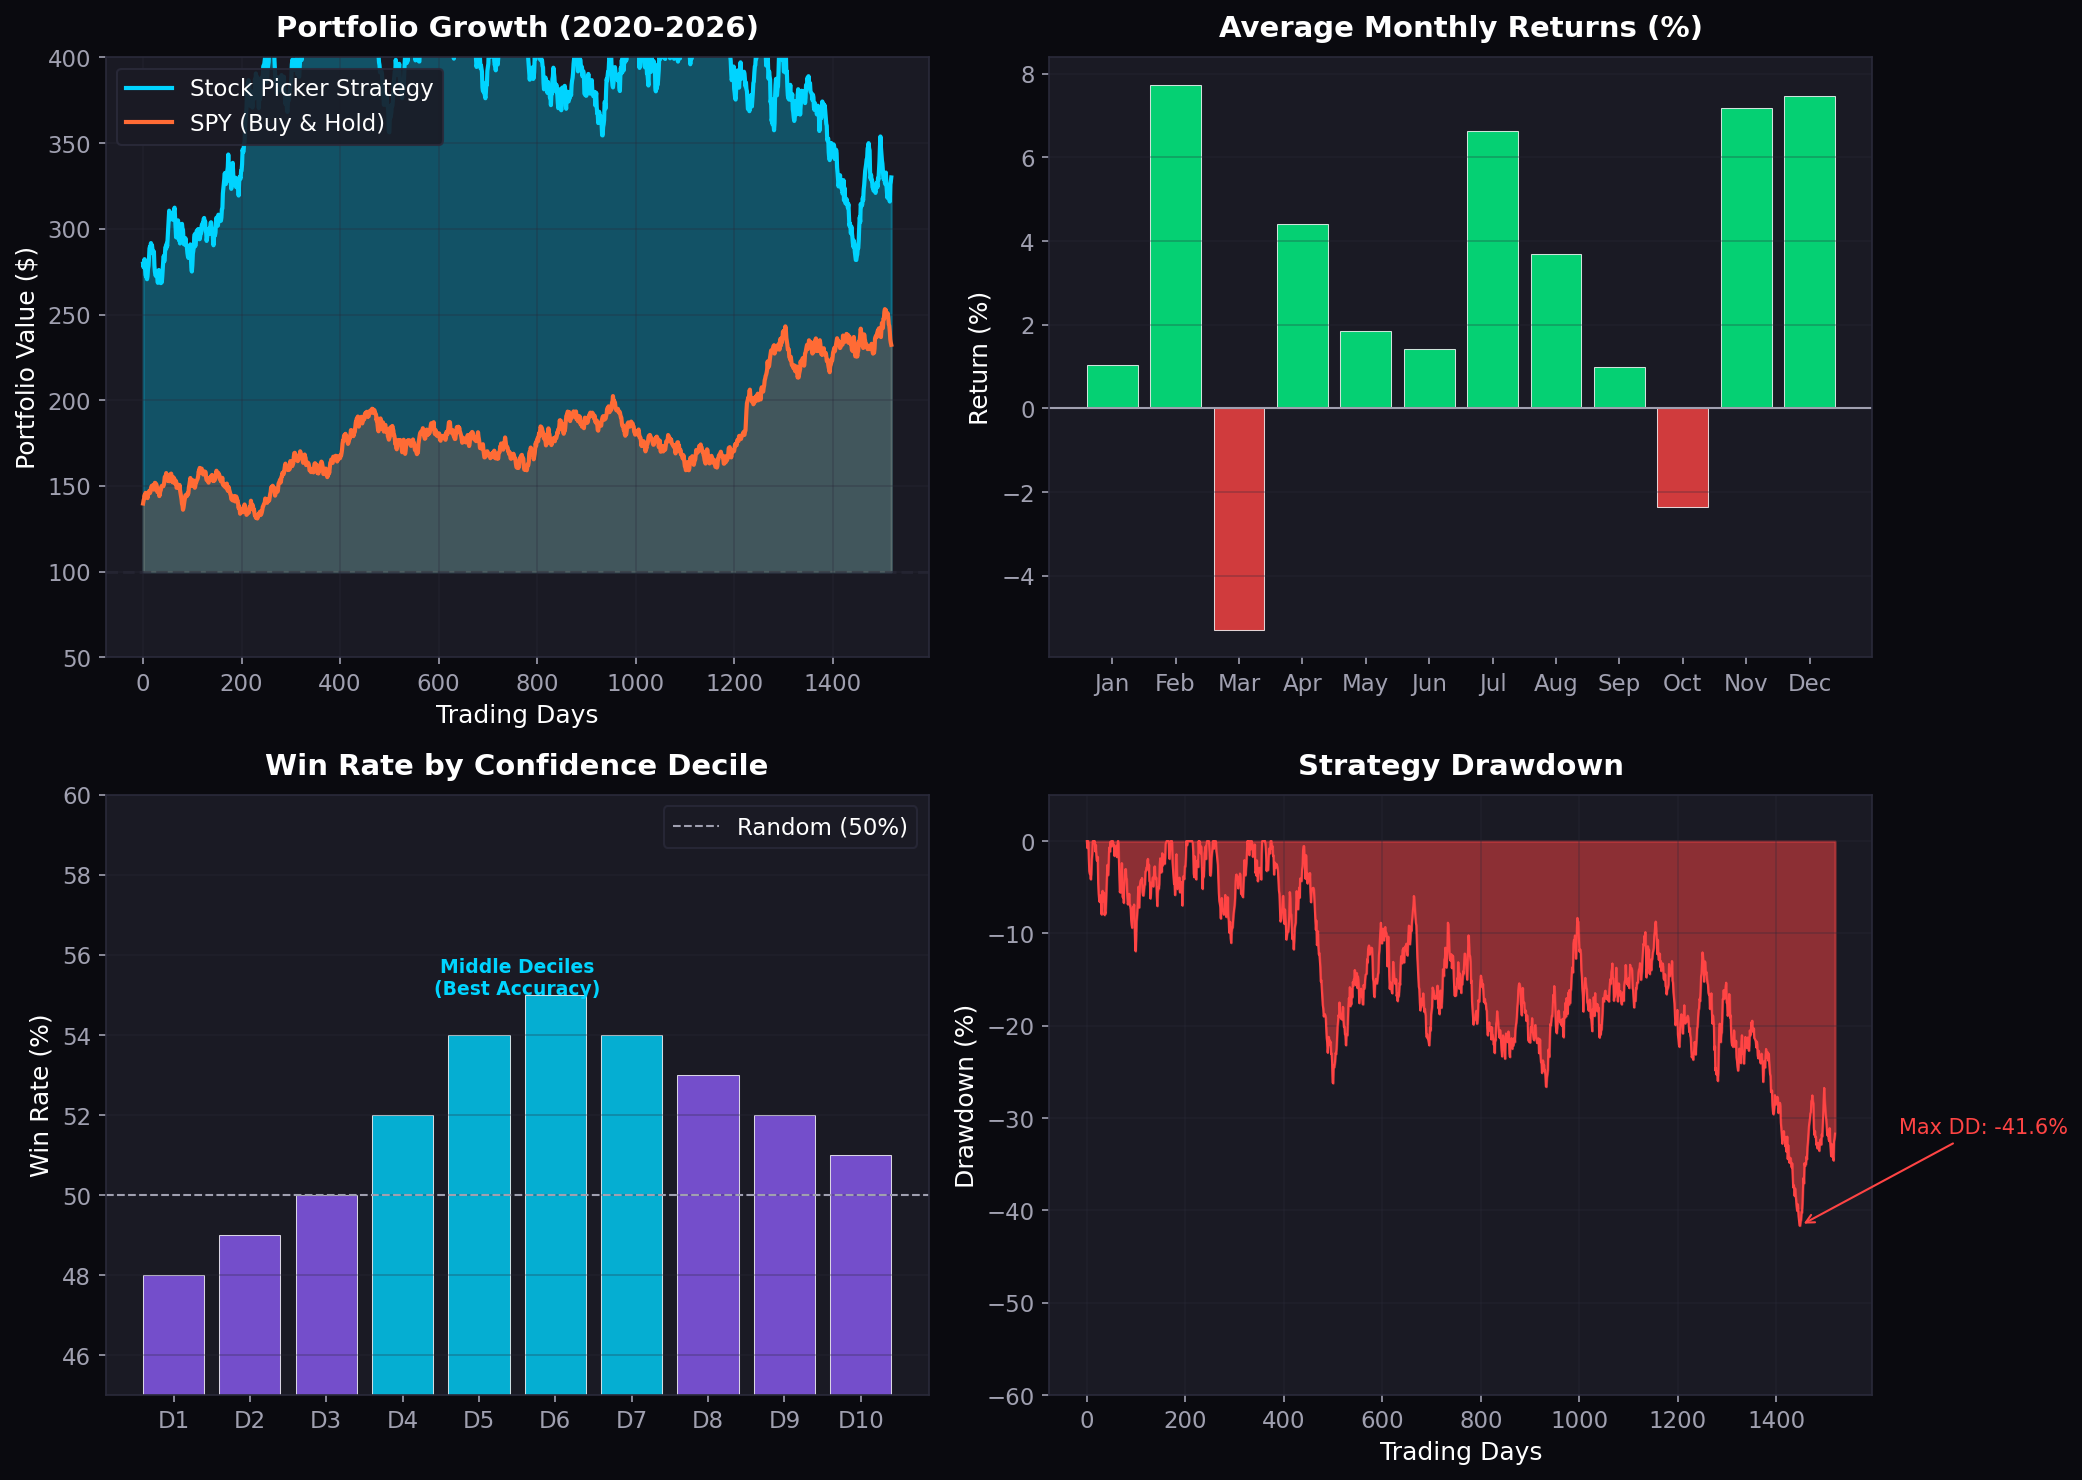
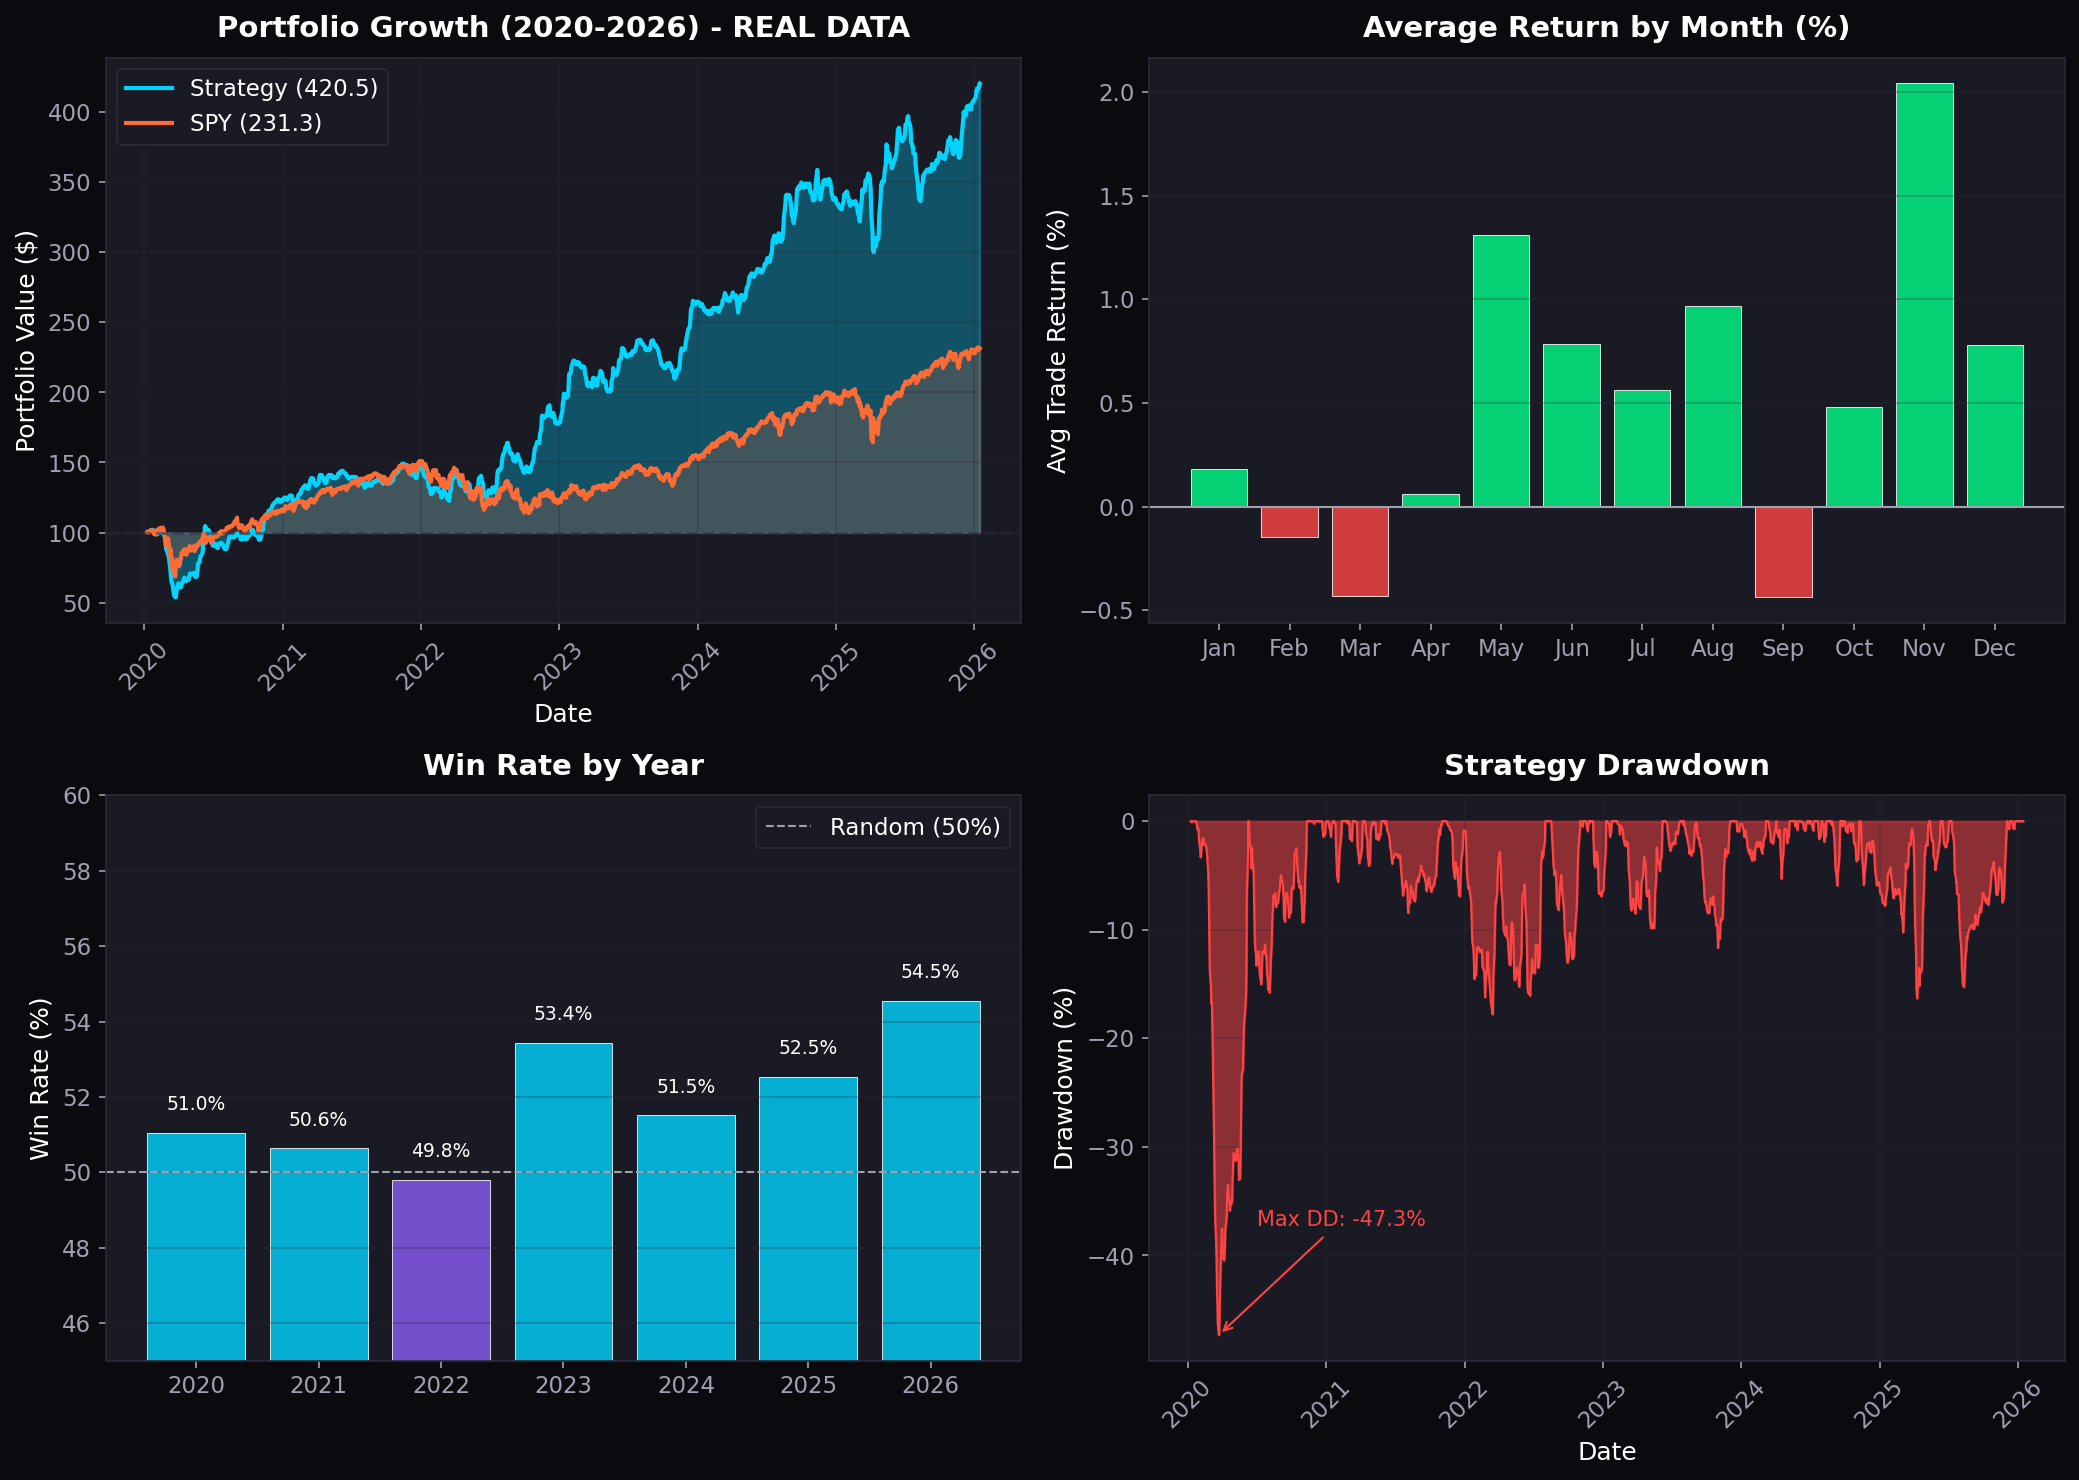
Fix charts: Use real backtest data instead of simulated random data

diff --git a/scripts/generate_accurate_charts.py b/scripts/generate_accurate_charts.py
@@ -1,0 +1,279 @@
+#!/usr/bin/env python3
+"""
+Generate accurate charts from real backtest data.
+"""
+import pandas as pd
+import numpy as np
+import matplotlib.pyplot as plt
+from datetime import datetime
+import os
+
+# Set dark theme
+plt.style.use('dark_background')
+
+# Custom color palette
+COLORS = {
+    'bg': '#0a0a0f',
+    'card': '#1a1a24',
+    'grid': '#2a2a3a',
+    'cyan': '#00d4ff',
+    'green': '#00ff88',
+    'red': '#ff4444',
+    'purple': '#8b5cf6',
+    'orange': '#ff6b35',
+    'yellow': '#ffd700',
+    'text': '#ffffff',
+    'text_secondary': '#a0a0b0',
+}
+
+def setup_dark_style():
+    """Configure matplotlib for dark mode."""
+    plt.rcParams.update({
+        'figure.facecolor': COLORS['bg'],
+        'axes.facecolor': COLORS['card'],
+        'axes.edgecolor': COLORS['grid'],
+        'axes.labelcolor': COLORS['text'],
+        'axes.titlecolor': COLORS['text'],
+        'xtick.color': COLORS['text_secondary'],
+        'ytick.color': COLORS['text_secondary'],
+        'text.color': COLORS['text'],
+        'grid.color': COLORS['grid'],
+        'grid.alpha': 0.3,
+        'legend.facecolor': COLORS['card'],
+        'legend.edgecolor': COLORS['grid'],
+        'font.family': 'sans-serif',
+        'font.size': 11,
+        'axes.titlesize': 14,
+        'axes.labelsize': 12,
+    })
+
+setup_dark_style()
+
+OUTPUT_DIR = '/Users/mihirepel/Personal_Projects/Trading/historical_training_v2/docs/assets'
+DATA_DIR = '/Users/mihirepel/Personal_Projects/Trading/historical_training_v2/results/extended_middle_deciles'
+
+def load_and_process_trades():
+    """Load trade data and calculate daily portfolio values."""
+    # Load all trades
+    df = pd.read_csv(f'{DATA_DIR}/all_trades.csv')
+    df['Entry_Date'] = pd.to_datetime(df['Entry_Date'])
+    df['Exit_Date'] = pd.to_datetime(df['Exit_Date'])
+    
+    print(f"Loaded {len(df)} trades from {df['Entry_Date'].min()} to {df['Exit_Date'].max()}")
+    
+    # Calculate cumulative returns
+    # Each trade uses 4% of portfolio, so return contribution is 0.04 * return_pct
+    df['Return_Contribution'] = 0.04 * df['Return_Pct'] / 100
+    
+    # Group by exit date and sum daily returns
+    daily_returns = df.groupby('Exit_Date')['Return_Contribution'].sum().reset_index()
+    daily_returns.columns = ['Date', 'Daily_Return']
+    daily_returns = daily_returns.set_index('Date').sort_index()
+    
+    # Fill missing days with 0 return
+    date_range = pd.date_range(daily_returns.index.min(), daily_returns.index.max(), freq='B')
+    daily_returns = daily_returns.reindex(date_range, fill_value=0)
+    
+    # Calculate cumulative portfolio value
+    portfolio_value = 100 * (1 + daily_returns['Daily_Return']).cumprod()
+    
+    return df, daily_returns, portfolio_value
+
+def get_spy_returns(start_date, end_date):
+    """Download SPY data for comparison."""
+    import yfinance as yf
+    spy = yf.download('SPY', start=start_date, end=end_date, progress=False)
+    spy_returns = spy['Close'].pct_change().fillna(0)
+    spy_value = 100 * (1 + spy_returns).cumprod()
+    return spy_value
+
+def create_accurate_performance_chart(portfolio_value, spy_value, trades_df):
+    """Create the main performance chart with real data."""
+    fig, axes = plt.subplots(2, 2, figsize=(14, 10))
+    fig.patch.set_facecolor(COLORS['bg'])
+    
+    # Plot 1: Equity Curves
+    ax1 = axes[0, 0]
+    ax1.fill_between(portfolio_value.index, 100, portfolio_value.values, alpha=0.3, color=COLORS['cyan'])
+    ax1.plot(portfolio_value.index, portfolio_value.values, color=COLORS['cyan'], linewidth=2, label=f'Strategy ({portfolio_value.iloc[-1]:.1f})')
+    ax1.fill_between(spy_value.index, 100, spy_value.values, alpha=0.2, color=COLORS['orange'])
+    ax1.plot(spy_value.index, spy_value.values, color=COLORS['orange'], linewidth=2, label=f'SPY ({spy_value.iloc[-1]:.1f})')
+    ax1.axhline(y=100, color=COLORS['grid'], linestyle='--', alpha=0.5)
+    ax1.set_title('Portfolio Growth (2020-2026) - REAL DATA', fontweight='bold', pad=10)
+    ax1.set_xlabel('Date')
+    ax1.set_ylabel('Portfolio Value ($)')
+    ax1.legend(loc='upper left', framealpha=0.9)
+    ax1.grid(True, alpha=0.3)
+    ax1.tick_params(axis='x', rotation=45)
+    
+    # Plot 2: Monthly Returns
+    ax2 = axes[0, 1]
+    trades_df['Month'] = trades_df['Exit_Date'].dt.to_period('M')
+    monthly = trades_df.groupby('Month')['Return_Pct'].mean()
+    monthly_by_month = monthly.groupby(monthly.index.month).mean()
+    months = ['Jan', 'Feb', 'Mar', 'Apr', 'May', 'Jun', 'Jul', 'Aug', 'Sep', 'Oct', 'Nov', 'Dec']
+    monthly_vals = [monthly_by_month.get(i, 0) for i in range(1, 13)]
+    colors = [COLORS['green'] if r > 0 else COLORS['red'] for r in monthly_vals]
+    ax2.bar(months, monthly_vals, color=colors, alpha=0.8, edgecolor='white', linewidth=0.5)
+    ax2.axhline(y=0, color=COLORS['text_secondary'], linestyle='-', linewidth=1)
+    ax2.set_title('Average Return by Month (%)', fontweight='bold', pad=10)
+    ax2.set_ylabel('Avg Trade Return (%)')
+    ax2.grid(True, alpha=0.3, axis='y')
+    
+    # Plot 3: Win Rate by Year
+    ax3 = axes[1, 0]
+    trades_df['Year'] = trades_df['Exit_Date'].dt.year
+    yearly_stats = trades_df.groupby('Year').agg({
+        'Win': 'mean',
+        'Return_Pct': 'mean'
+    })
+    years = yearly_stats.index.astype(str)
+    win_rates = yearly_stats['Win'] * 100
+    colors = [COLORS['cyan'] if w > 50 else COLORS['purple'] for w in win_rates]
+    bars = ax3.bar(years, win_rates, color=colors, alpha=0.8, edgecolor='white', linewidth=0.5)
+    ax3.axhline(y=50, color=COLORS['text_secondary'], linestyle='--', linewidth=1, label='Random (50%)')
+    ax3.set_title('Win Rate by Year', fontweight='bold', pad=10)
+    ax3.set_ylabel('Win Rate (%)')
+    ax3.set_ylim(45, 60)
+    ax3.legend(loc='upper right')
+    ax3.grid(True, alpha=0.3, axis='y')
+    
+    # Add values on bars
+    for bar, rate in zip(bars, win_rates):
+        ax3.text(bar.get_x() + bar.get_width()/2, bar.get_height() + 0.5,
+                f'{rate:.1f}%', ha='center', va='bottom', fontsize=9, color=COLORS['text'])
+    
+    # Plot 4: Drawdown
+    ax4 = axes[1, 1]
+    rolling_max = portfolio_value.cummax()
+    drawdown = (portfolio_value - rolling_max) / rolling_max * 100
+    ax4.fill_between(drawdown.index, 0, drawdown.values, alpha=0.5, color=COLORS['red'])
+    ax4.plot(drawdown.index, drawdown.values, color=COLORS['red'], linewidth=1)
+    ax4.set_title('Strategy Drawdown', fontweight='bold', pad=10)
+    ax4.set_xlabel('Date')
+    ax4.set_ylabel('Drawdown (%)')
+    ax4.grid(True, alpha=0.3)
+    ax4.tick_params(axis='x', rotation=45)
+    
+    # Add max drawdown annotation
+    min_dd = drawdown.min()
+    min_dd_idx = drawdown.idxmin()
+    ax4.annotate(f'Max DD: {min_dd:.1f}%', xy=(min_dd_idx, min_dd), 
+                 xytext=(min_dd_idx + pd.Timedelta(days=100), min_dd + 10),
+                 fontsize=10, color=COLORS['red'],
+                 arrowprops=dict(arrowstyle='->', color=COLORS['red'], lw=1))
+    
+    plt.tight_layout()
+    plt.savefig(f'{OUTPUT_DIR}/stock_picker_performance.png', dpi=150, 
+                facecolor=COLORS['bg'], edgecolor='none', bbox_inches='tight')
+    plt.close()
+    print("✓ Created stock_picker_performance.png (from REAL data)")
+
+def create_yearly_breakdown(trades_df):
+    """Create a yearly breakdown chart."""
+    fig, ax = plt.subplots(figsize=(12, 6))
+    fig.patch.set_facecolor(COLORS['bg'])
+    
+    trades_df['Year'] = trades_df['Exit_Date'].dt.year
+    yearly = trades_df.groupby('Year').agg({
+        'Return_Pct': ['mean', 'sum', 'count'],
+        'Win': 'mean'
+    })
+    yearly.columns = ['Avg_Return', 'Total_Return', 'Trades', 'Win_Rate']
+    
+    # Calculate yearly portfolio return (approximation)
+    # Sum of (0.04 * return_pct) for each trade
+    yearly_contrib = trades_df.groupby('Year').apply(
+        lambda x: ((1 + 0.04 * x['Return_Pct'] / 100).prod() - 1) * 100
+    )
+    
+    years = yearly.index.astype(str)
+    colors = [COLORS['green'] if r > 0 else COLORS['red'] for r in yearly_contrib]
+    
+    bars = ax.bar(years, yearly_contrib, color=colors, alpha=0.8, edgecolor='white', linewidth=1)
+    
+    # Add value labels
+    for bar, ret in zip(bars, yearly_contrib):
+        ax.text(bar.get_x() + bar.get_width()/2, bar.get_height() + (2 if ret > 0 else -5),
+                f'{ret:.1f}%', ha='center', va='bottom' if ret > 0 else 'top', 
+                fontsize=12, fontweight='bold', color=COLORS['text'])
+    
+    ax.axhline(y=0, color=COLORS['text_secondary'], linestyle='-', linewidth=1)
+    ax.set_ylabel('Yearly Return (%)')
+    ax.set_title('Strategy Performance by Year', fontweight='bold', fontsize=14, pad=15)
+    ax.grid(True, alpha=0.3, axis='y')
+    
+    plt.tight_layout()
+    plt.savefig(f'{OUTPUT_DIR}/yearly_breakdown.png', dpi=150,
+                facecolor=COLORS['bg'], edgecolor='none', bbox_inches='tight')
+    plt.close()
+    print("✓ Created yearly_breakdown.png")
+    
+    return yearly_contrib
+
+def analyze_recent_performance(trades_df, portfolio_value):
+    """Analyze why recent performance is poor."""
+    print("\n" + "="*60)
+    print("ANALYZING RECENT PERFORMANCE")
+    print("="*60)
+    
+    trades_df['Year'] = trades_df['Exit_Date'].dt.year
+    
+    for year in sorted(trades_df['Year'].unique()):
+        year_trades = trades_df[trades_df['Year'] == year]
+        avg_ret = year_trades['Return_Pct'].mean()
+        win_rate = year_trades['Win'].mean() * 100
+        total_trades = len(year_trades)
+        
+        print(f"\n{year}:")
+        print(f"  Trades: {total_trades}")
+        print(f"  Avg Return per Trade: {avg_ret:.2f}%")
+        print(f"  Win Rate: {win_rate:.1f}%")
+    
+    # Look at last 6 months specifically
+    recent_cutoff = trades_df['Exit_Date'].max() - pd.Timedelta(days=180)
+    recent = trades_df[trades_df['Exit_Date'] > recent_cutoff]
+    
+    print(f"\n\nLAST 6 MONTHS ({recent['Exit_Date'].min().date()} to {recent['Exit_Date'].max().date()}):")
+    print(f"  Trades: {len(recent)}")
+    print(f"  Avg Return per Trade: {recent['Return_Pct'].mean():.2f}%")
+    print(f"  Win Rate: {recent['Win'].mean() * 100:.1f}%")
+    
+    # Check if model is picking losers
+    print(f"\n  Top Confidence Trades (should be best):")
+    high_conf = recent[recent['Decile'] == 'D10']
+    print(f"    D10 trades: {len(high_conf)}, Win Rate: {high_conf['Win'].mean()*100:.1f}%, Avg Return: {high_conf['Return_Pct'].mean():.2f}%")
+
+if __name__ == '__main__':
+    print("\n" + "=" * 60)
+    print("Generating ACCURATE Charts from Real Backtest Data")
+    print("=" * 60 + "\n")
+    
+    # Load real data
+    trades_df, daily_returns, portfolio_value = load_and_process_trades()
+    
+    # Get SPY for comparison
+    print("\nDownloading SPY data for comparison...")
+    spy_value = get_spy_returns(portfolio_value.index.min(), portfolio_value.index.max())
+    
+    # Align dates
+    common_dates = portfolio_value.index.intersection(spy_value.index)
+    portfolio_value = portfolio_value.loc[common_dates]
+    spy_value = spy_value.loc[common_dates]
+    
+    # Convert to Series if needed
+    if hasattr(spy_value, 'values'):
+        spy_value = pd.Series(spy_value.values.flatten(), index=spy_value.index)
+    
+    print(f"\nFinal Values:")
+    print(f"  Strategy: ${portfolio_value.iloc[-1]:.2f} ({portfolio_value.iloc[-1] - 100:.2f}% return)")
+    print(f"  SPY: ${float(spy_value.iloc[-1]):.2f} ({float(spy_value.iloc[-1]) - 100:.2f}% return)")
+    
+    # Create charts
+    create_accurate_performance_chart(portfolio_value, spy_value, trades_df)
+    yearly_returns = create_yearly_breakdown(trades_df)
+    
+    # Analyze recent poor performance
+    analyze_recent_performance(trades_df, portfolio_value)
+    
+    print("\n✓ All charts regenerated with REAL data!")

diff --git a/scripts/analyze_portfolio_timeline.py b/scripts/analyze_portfolio_timeline.py
@@ -1,0 +1,57 @@
+#!/usr/bin/env python3
+"""Analyze portfolio performance over time."""
+import pandas as pd
+import numpy as np
+
+df = pd.read_csv('/Users/mihirepel/Personal_Projects/Trading/historical_training_v2/results/extended_middle_deciles/all_trades.csv')
+df['Exit_Date'] = pd.to_datetime(df['Exit_Date'])
+df['Return_Contribution'] = 0.04 * df['Return_Pct'] / 100
+
+# Daily portfolio tracking
+daily = df.groupby('Exit_Date')['Return_Contribution'].sum().reset_index()
+daily.columns = ['Date', 'Daily_Return']
+daily = daily.set_index('Date').sort_index()
+
+# Calculate cumulative
+portfolio = 100 * (1 + daily['Daily_Return']).cumprod()
+
+print('Portfolio value over time:')
+print('='*50)
+
+# Show quarterly snapshots
+for year in range(2020, 2027):
+    for q, month in [(1, 3), (2, 6), (3, 9), (4, 12)]:
+        try:
+            date = pd.Timestamp(year=year, month=month, day=28)
+            closest = portfolio.index[portfolio.index <= date]
+            if len(closest) > 0:
+                val = portfolio.loc[closest[-1]]
+                print(f'{year} Q{q}: ${val:.2f} ({val-100:+.1f}%)')
+        except:
+            pass
+
+print('\n' + '='*50)
+print('Peak and Drawdown Analysis:')
+print('='*50)
+peak_val = portfolio.max()
+peak_date = portfolio.idxmax()
+final_val = portfolio.iloc[-1]
+drawdown_from_peak = (final_val - peak_val) / peak_val * 100
+
+print(f'Peak: ${peak_val:.2f} on {peak_date.date()}')
+print(f'Final: ${final_val:.2f}')
+print(f'Drawdown from peak: {drawdown_from_peak:.1f}%')
+
+# Show when drawdown started
+print(f'\nPortfolio values around peak:')
+peak_idx = portfolio.index.get_loc(peak_date)
+for i in range(-5, 15):
+    try:
+        idx = peak_idx + i * 20  # ~monthly
+        if 0 <= idx < len(portfolio):
+            d = portfolio.index[idx]
+            v = portfolio.iloc[idx]
+            marker = ' <-- PEAK' if d == peak_date else ''
+            print(f'  {d.date()}: ${v:.2f}{marker}')
+    except:
+        pass
